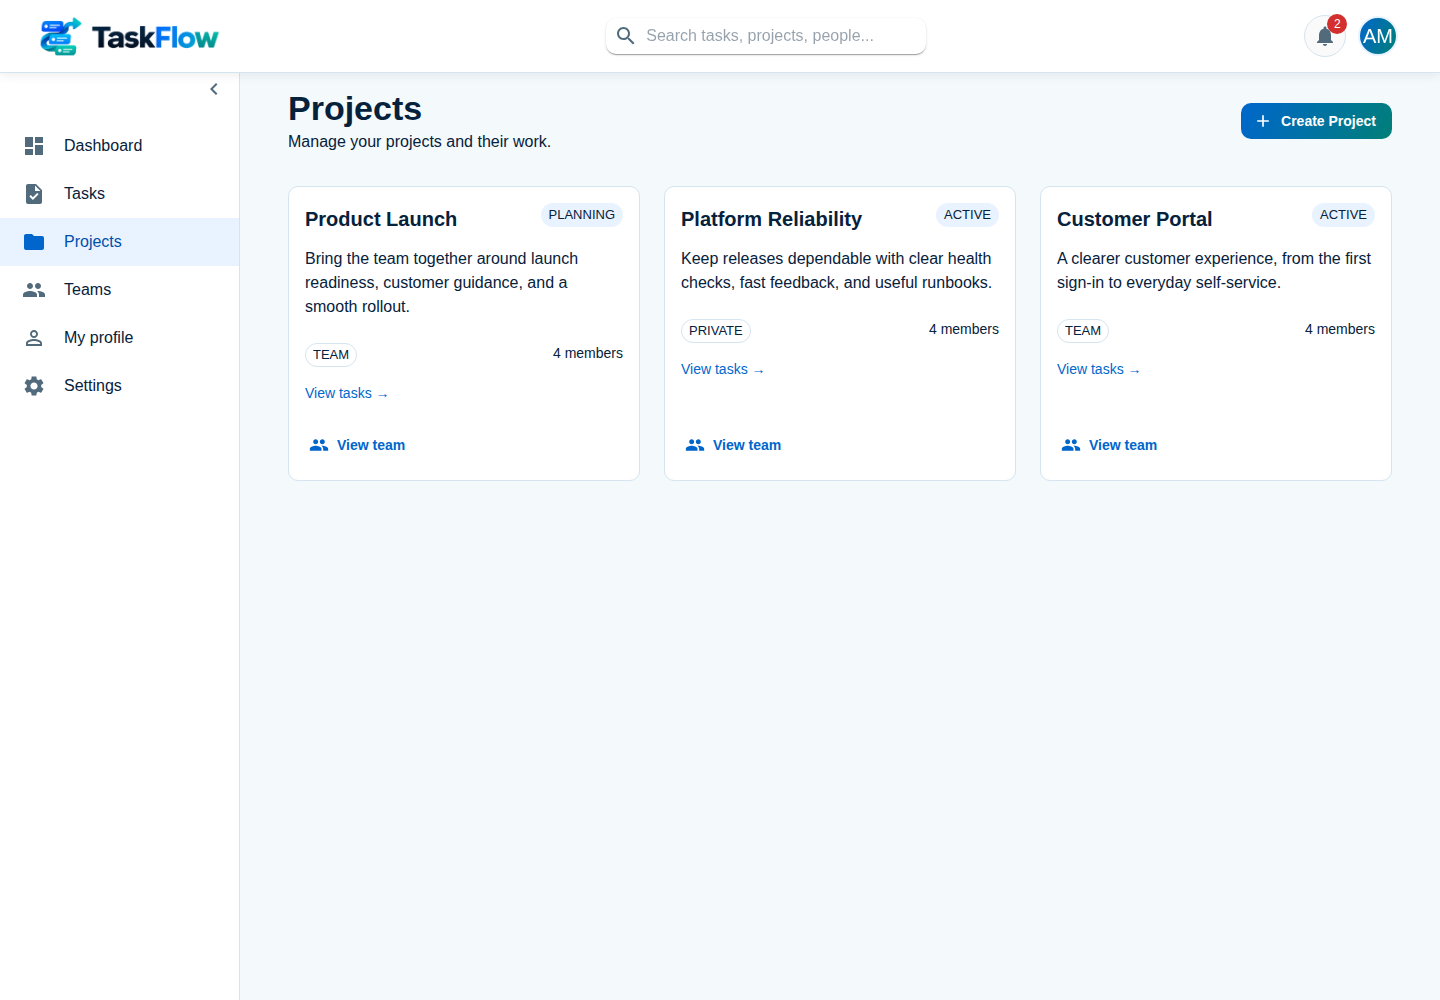
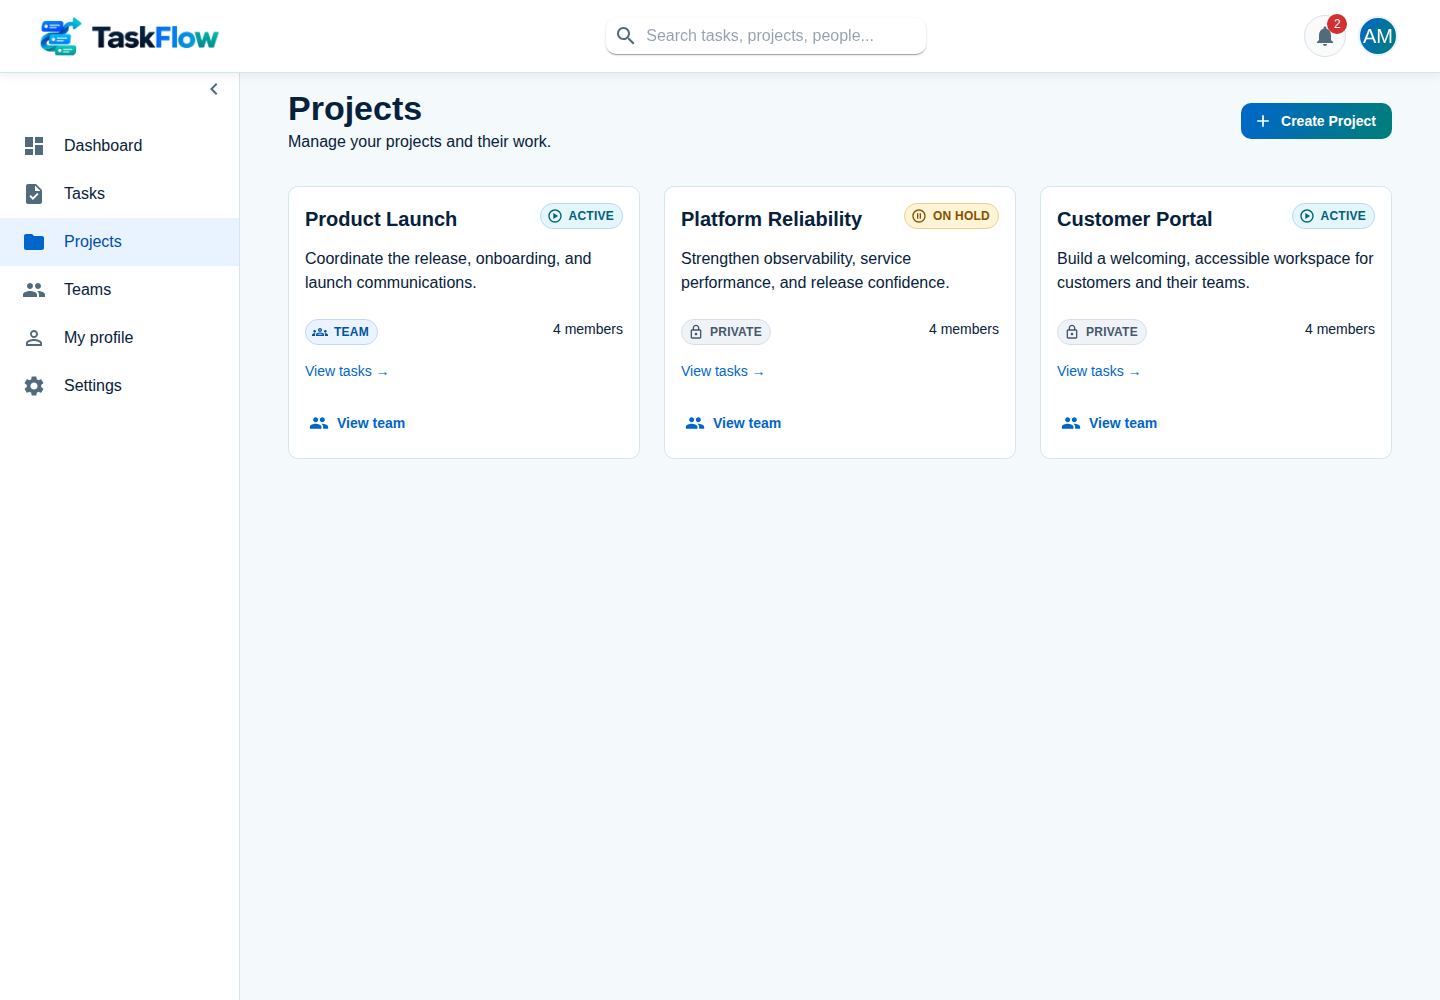
made frontend improvement and a little colorful

diff --git a/frontend/src/components/WorkBadge.tsx b/frontend/src/components/WorkBadge.tsx
@@ -1,0 +1,96 @@
+import Chip from "@mui/material/Chip";
+import RadioButtonUncheckedIcon from "@mui/icons-material/RadioButtonUnchecked";
+import TimelapseIcon from "@mui/icons-material/Timelapse";
+import RateReviewOutlinedIcon from "@mui/icons-material/RateReviewOutlined";
+import TaskAltIcon from "@mui/icons-material/TaskAlt";
+import BlockOutlinedIcon from "@mui/icons-material/BlockOutlined";
+import CancelOutlinedIcon from "@mui/icons-material/CancelOutlined";
+import KeyboardDoubleArrowDownIcon from "@mui/icons-material/KeyboardDoubleArrowDown";
+import DragHandleIcon from "@mui/icons-material/DragHandle";
+import KeyboardDoubleArrowUpIcon from "@mui/icons-material/KeyboardDoubleArrowUp";
+import PriorityHighIcon from "@mui/icons-material/PriorityHigh";
+import AssignmentOutlinedIcon from "@mui/icons-material/AssignmentOutlined";
+import BugReportOutlinedIcon from "@mui/icons-material/BugReportOutlined";
+import AutoAwesomeOutlinedIcon from "@mui/icons-material/AutoAwesomeOutlined";
+import TrendingUpIcon from "@mui/icons-material/TrendingUp";
+import LayersOutlinedIcon from "@mui/icons-material/LayersOutlined";
+import PlayCircleOutlineIcon from "@mui/icons-material/PlayCircleOutlined";
+import PauseCircleOutlineIcon from "@mui/icons-material/PauseCircleOutlined";
+import Inventory2OutlinedIcon from "@mui/icons-material/Inventory2Outlined";
+import LockOutlinedIcon from "@mui/icons-material/LockOutlined";
+import GroupsOutlinedIcon from "@mui/icons-material/GroupsOutlined";
+import BusinessOutlinedIcon from "@mui/icons-material/BusinessOutlined";
+import PublicIcon from "@mui/icons-material/Public";
+import { TaskPriority, TaskStatus, TaskType } from "../features/tasks/types/task.types";
+import { ProjectStatus, ProjectVisibility } from "../features/projects/types/project.types";
+
+// Soft brand shades and urgency accents keep every label readable on its own background.
+const tones = {
+  slate: { color: "#46576B", backgroundColor: "#EFF3F7", borderColor: "#D6DFE8" },
+  blue: { color: "#0054A6", backgroundColor: "#EAF3FF", borderColor: "#BDD9FA" },
+  cyan: { color: "#00617A", backgroundColor: "#E5F6FB", borderColor: "#ADE0EC" },
+  teal: { color: "#00665E", backgroundColor: "#E2F5F1", borderColor: "#ABDCD1" },
+  amber: { color: "#855000", backgroundColor: "#FFF4D6", borderColor: "#EED18A" },
+  orange: { color: "#A64708", backgroundColor: "#FFF0E3", borderColor: "#F1C4A1" },
+  red: { color: "#A32E36", backgroundColor: "#FDEBED", borderColor: "#F1BCC4" },
+  navy: { color: "#143552", backgroundColor: "#EAF0F8", borderColor: "#C5D4E5" },
+} as const;
+
+type Definition = { tone: keyof typeof tones; icon: typeof TaskAltIcon };
+
+const definitions = {
+  status: {
+    TODO: { tone: "slate", icon: RadioButtonUncheckedIcon },
+    IN_PROGRESS: { tone: "blue", icon: TimelapseIcon },
+    IN_REVIEW: { tone: "amber", icon: RateReviewOutlinedIcon },
+    BLOCKED: { tone: "red", icon: BlockOutlinedIcon },
+    COMPLETED: { tone: "teal", icon: TaskAltIcon },
+    CANCELLED: { tone: "slate", icon: CancelOutlinedIcon },
+  } satisfies Record<TaskStatus, Definition>,
+  priority: {
+    LOW: { tone: "teal", icon: KeyboardDoubleArrowDownIcon },
+    MEDIUM: { tone: "amber", icon: DragHandleIcon },
+    HIGH: { tone: "orange", icon: KeyboardDoubleArrowUpIcon },
+    CRITICAL: { tone: "red", icon: PriorityHighIcon },
+  } satisfies Record<TaskPriority, Definition>,
+  type: {
+    TASK: { tone: "cyan", icon: AssignmentOutlinedIcon },
+    BUG: { tone: "red", icon: BugReportOutlinedIcon },
+    FEATURE: { tone: "blue", icon: AutoAwesomeOutlinedIcon },
+    IMPROVEMENT: { tone: "teal", icon: TrendingUpIcon },
+    EPIC: { tone: "navy", icon: LayersOutlinedIcon },
+  } satisfies Record<TaskType, Definition>,
+  projectStatus: {
+    PLANNING: { tone: "blue", icon: RadioButtonUncheckedIcon },
+    ACTIVE: { tone: "cyan", icon: PlayCircleOutlineIcon },
+    ON_HOLD: { tone: "amber", icon: PauseCircleOutlineIcon },
+    COMPLETED: { tone: "teal", icon: TaskAltIcon },
+    ARCHIVED: { tone: "slate", icon: Inventory2OutlinedIcon },
+  } satisfies Record<ProjectStatus, Definition>,
+  visibility: {
+    PRIVATE: { tone: "slate", icon: LockOutlinedIcon },
+    TEAM: { tone: "blue", icon: GroupsOutlinedIcon },
+    ORGANIZATION: { tone: "teal", icon: BusinessOutlinedIcon },
+    PUBLIC: { tone: "cyan", icon: PublicIcon },
+  } satisfies Record<ProjectVisibility, Definition>,
+};
+
+type WorkBadgeProps =
+  | { kind: "status"; value: TaskStatus }
+  | { kind: "priority"; value: TaskPriority }
+  | { kind: "type"; value: TaskType }
+  | { kind: "projectStatus"; value: ProjectStatus }
+  | { kind: "visibility"; value: ProjectVisibility };
+
+/** Use the same semantics in lists and selects; text and icons supplement the color. */
+export default function WorkBadge({ kind, value }: WorkBadgeProps) {
+  const definition = (definitions[kind] as Record<string, Definition>)[value];
+  const { icon: Icon, tone } = definition ?? { icon: AssignmentOutlinedIcon, tone: "slate" };
+  return <Chip component="span" size="small" icon={<Icon />} label={value.replaceAll("_", " ")}
+    sx={{
+      height: 26, border: "1px solid", ...tones[tone], borderRadius: "999px", flexShrink: 0,
+      fontSize: "0.75rem", fontWeight: 650, letterSpacing: "0.02em", verticalAlign: "middle",
+      "& .MuiChip-icon": { color: "inherit", fontSize: 16, ml: 0.75, mr: -0.25 },
+      "& .MuiChip-label": { px: 1 },
+    }} />;
+}

diff --git a/frontend/src/pages/ProjectTasks.tsx b/frontend/src/pages/ProjectTasks.tsx
@@ -1,7 +1,8 @@
 import { useEffect, useRef, useState } from "react";
 import axios from "axios";
 import { Link as RouterLink, useParams } from "react-router-dom";
-import { Alert, Box, Button, Card, CardContent, Chip, CircularProgress, Pagination, Stack, Typography, TextField, MenuItem } from "@mui/material";
+import { Alert, Box, Button, Card, CardContent, CircularProgress, Pagination, Stack, Typography, TextField, MenuItem } from "@mui/material";
+import WorkBadge from "../components/WorkBadge";
 import AddIcon from "@mui/icons-material/Add";
 import ArrowBackIcon from "@mui/icons-material/ArrowBack";
 import CreateTaskDialog from "../features/tasks/components/CreateTaskDialog";
@@ -77,9 +78,9 @@ function ProjectTaskList({ projectId }: { projectId: string }) {
             <CardContent>
               <Typography variant="h6" sx={{ overflowWrap: "anywhere" }}>{task.title}</Typography>
               <Stack direction="row" spacing={1} useFlexGap sx={{ mt: 1, flexWrap: "wrap" }}>
-                <Chip size="small" label={task.status.replaceAll("_", " ")} />
-                <Chip size="small" variant="outlined" label={task.priority} />
-                <Chip size="small" variant="outlined" label={task.type} />
+                <WorkBadge kind="status" value={task.status} />
+                <WorkBadge kind="priority" value={task.priority} />
+                <WorkBadge kind="type" value={task.type} />
               </Stack>
               <TaskStatusControl task={task} onUpdated={(updated) => setResult((current) => current ? {
                 ...current, content: current.content.map((item) => item.id === updated.id ? updated : item),
@@ -137,7 +138,7 @@ function TaskStatusControl({ task, onUpdated }: {
       sx={{ maxWidth: 300 }} helperText={saving ? "Saving..." : "Available changes depend on your project role."}
       onChange={(event) => { void changeStatus(event.target.value as TaskStatus); }}>
       {[task.status, ...transitions[task.status]].map((status) =>
-        <MenuItem key={status} value={status}>{status.replaceAll("_", " ")}</MenuItem>)}
+        <MenuItem key={status} value={status}><WorkBadge kind="status" value={status} /></MenuItem>)}
     </TextField>
     {error && <Alert severity="error">{error}</Alert>}
     {saved && <Typography role="status" variant="body2" color="success.main">Status updated.</Typography>}

diff --git a/frontend/src/components/dashboard/Dashboard.tsx b/frontend/src/components/dashboard/Dashboard.tsx
@@ -9,6 +9,7 @@ import { TaskStatus } from "../../features/tasks/types/task.types";
 import { useCurrentUser } from "../../features/auth/hooks/useCurrentUser";
 import { userDisplayName } from "../../features/users/utils/userName";
 import { useDateFormatter } from "../../features/users/hooks/useDateFormatter";
+import WorkBadge from "../WorkBadge";
 
 /** Derive overview counts and recent/deadline lists from the complete live workspace snapshot. */
 export default function Dashboard() {
@@ -53,7 +54,7 @@ export default function Dashboard() {
             {!tasks.length && <Typography color="text.secondary">No tasks yet. Open a project to create one.</Typography>}
             {tasks.slice(0, 5).map((task) => <Box key={task.id} sx={{ mb: 2 }}>
               <Button component={RouterLink} to={`/dashboard/projects/${encodeURIComponent(task.projectId)}/tasks`} sx={{ textAlign: "left", overflowWrap: "anywhere" }}>{task.title}</Button>
-              <Typography variant="body2" color="text.secondary">{task.status.replaceAll("_", " ")}</Typography>
+              <Box sx={{ mt: 0.5 }}><WorkBadge kind="status" value={task.status} /></Box>
             </Box>)}
           </Paper></Grid>
           <Grid size={{ xs: 12, md: 6 }}><Paper variant="outlined" sx={{ p: 3, borderRadius: 3 }}>
@@ -62,6 +63,7 @@ export default function Dashboard() {
             {deadlines.map((task) => <Box key={task.id} sx={{ mb: 2 }}>
               <Button component={RouterLink} to={`/dashboard/projects/${encodeURIComponent(task.projectId)}/tasks`} sx={{ textAlign: "left", overflowWrap: "anywhere" }}>{task.title}</Button>
               <Typography variant="body2" color="text.secondary">Due {formatDate(task.dueDate!, true)}</Typography>
+              <Box sx={{ mt: 1 }}><WorkBadge kind="priority" value={task.priority} /></Box>
             </Box>)}
           </Paper></Grid>
         </Grid>

diff --git a/frontend/src/features/tasks/components/CreateTaskDialog.tsx b/frontend/src/features/tasks/components/CreateTaskDialog.tsx
@@ -7,6 +7,7 @@ import {
 } from "@mui/material";
 import { TaskPriority, TaskType } from "../types/task.types";
 import type { CreateTaskRequest } from "../types/task.types";
+import WorkBadge from "../../../components/WorkBadge";
 
 interface CreateTaskDialogProps {
   open: boolean;
@@ -62,11 +63,11 @@ export default function CreateTaskDialog({ open, projectId, onClose, onCreate }:
               onChange={(event) => setDescription(event.target.value)} slotProps={{ htmlInput: { maxLength: 5000 } }} />
             <TextField select label="Priority" value={priority} disabled={loading}
               onChange={(event) => setPriority(event.target.value as TaskPriority)}>
-              {Object.values(TaskPriority).map((value) => <MenuItem key={value} value={value}>{value}</MenuItem>)}
+              {Object.values(TaskPriority).map((value) => <MenuItem key={value} value={value}><WorkBadge kind="priority" value={value} /></MenuItem>)}
             </TextField>
             <TextField select label="Type" value={type} disabled={loading}
               onChange={(event) => setType(event.target.value as TaskType)}>
-              {Object.values(TaskType).map((value) => <MenuItem key={value} value={value}>{value}</MenuItem>)}
+              {Object.values(TaskType).map((value) => <MenuItem key={value} value={value}><WorkBadge kind="type" value={value} /></MenuItem>)}
             </TextField>
             <TextField label="Due date" helperText={`Enter time in your device's time zone (${Intl.DateTimeFormat().resolvedOptions().timeZone}).`} type="datetime-local" value={dueDate} disabled={loading}
               onChange={(event) => setDueDate(event.target.value)} slotProps={{ inputLabel: { shrink: true } }} />

diff --git a/frontend/src/pages/Tasks.tsx b/frontend/src/pages/Tasks.tsx
@@ -1,7 +1,8 @@
 import { useState } from "react";
 import { Link as RouterLink } from "react-router-dom";
 import { useDateFormatter } from "../features/users/hooks/useDateFormatter";
-import { Alert, Box, Button, Card, CardContent, Chip, CircularProgress, MenuItem, Pagination, Stack, TextField, Typography } from "@mui/material";
+import { Alert, Box, Button, Card, CardContent, CircularProgress, MenuItem, Pagination, Stack, TextField, Typography } from "@mui/material";
+import WorkBadge from "../components/WorkBadge";
 import { useWorkspace } from "../features/tasks/hooks/useWorkspace";
 import CreateTaskDialog from "../features/tasks/components/CreateTaskDialog";
 import { taskService } from "../features/tasks/services/taskService";
@@ -40,9 +41,9 @@ export default function Tasks() {
           <Typography variant="h6" sx={{ overflowWrap: "anywhere" }}>{task.title}</Typography>
           <Button component={RouterLink} to={`/dashboard/projects/${encodeURIComponent(task.projectId)}/tasks`}>{names.get(task.projectId) ?? "View project"}</Button>
           <Stack direction="row" spacing={1} useFlexGap sx={{ flexWrap: "wrap" }}>
-            <Chip size="small" label={task.status.replaceAll("_", " ")} />
-            <Chip size="small" variant="outlined" label={task.priority} />
-            <Chip size="small" variant="outlined" label={task.type} />
+            <WorkBadge kind="status" value={task.status} />
+            <WorkBadge kind="priority" value={task.priority} />
+            <WorkBadge kind="type" value={task.type} />
           </Stack>
           {task.dueDate && <Typography variant="body2" sx={{ mt: 2 }}>Due {formatDate(task.dueDate, true)}</Typography>}
         </CardContent></Card>)}

diff --git a/frontend/src/pages/Projects.tsx b/frontend/src/pages/Projects.tsx
@@ -10,7 +10,6 @@ import {
   CardContent,
   CardActionArea,
   CardActions,
-  Chip,
   CircularProgress,
   Stack,
   Typography,
@@ -19,6 +18,7 @@ import {
 import AddIcon from "@mui/icons-material/Add";
 import FolderIcon from "@mui/icons-material/Folder";
 import GroupIcon from "@mui/icons-material/Group";
+import WorkBadge from "../components/WorkBadge";
 
 import CreateProjectDialog from "../features/projects/components/CreateProjectDialog";
 import { projectService } from "../features/projects/services/projectService";
@@ -272,10 +272,7 @@ const loadProjects = async () => {
                     {project.name}
                   </Typography>
 
-                  <Chip
-                    size="small"
-                    label={project.status}
-                  />
+                  <WorkBadge kind="projectStatus" value={project.status} />
                 </Stack>
 
                 <Typography
@@ -294,11 +291,7 @@ const loadProjects = async () => {
                   direction="row"
                   sx={{ justifyContent: "space-between" }}
                 >
-                  <Chip
-                    size="small"
-                    variant="outlined"
-                    label={project.visibility}
-                  />
+                  <WorkBadge kind="visibility" value={project.visibility} />
 
                   <Typography
                     variant="body2"

diff --git a/README.md b/README.md
@@ -156,7 +156,7 @@ taskflow/
 
 ## 📸 Screenshots
 
-The interface follows the TaskFlow logo's blue, cyan, teal, and navy palette. Screenshots are captured from the running Docker stack with fictional demo accounts and project data.
+The interface follows the TaskFlow logo's blue, cyan, teal, and navy palette. Status, priority, and task-type badges combine distinct colors with icons and text for easy scanning. Screenshots are captured from the running Docker stack with fictional demo accounts and project data.
 
 ### Login Page
 
@@ -180,7 +180,13 @@ Project cards show status, visibility, member counts, and links to tasks and tea
 
 Tasks show their priority, type, deadline, and status controls governed by project permissions.
 
-![Customer Portal tasks in review, in progress, to do, and completed](docs/screenshots/project-tasks.png)
+![Customer Portal tasks with colored status, priority, and type badges](docs/screenshots/project-tasks.png)
+
+### All Tasks
+
+Browse work across projects, with consistent badges for progress, urgency, and task type.
+
+![TaskFlow task list showing colored statuses, priorities, and task types across three projects](docs/screenshots/tasks.png)
 
 ### Project Team
 
